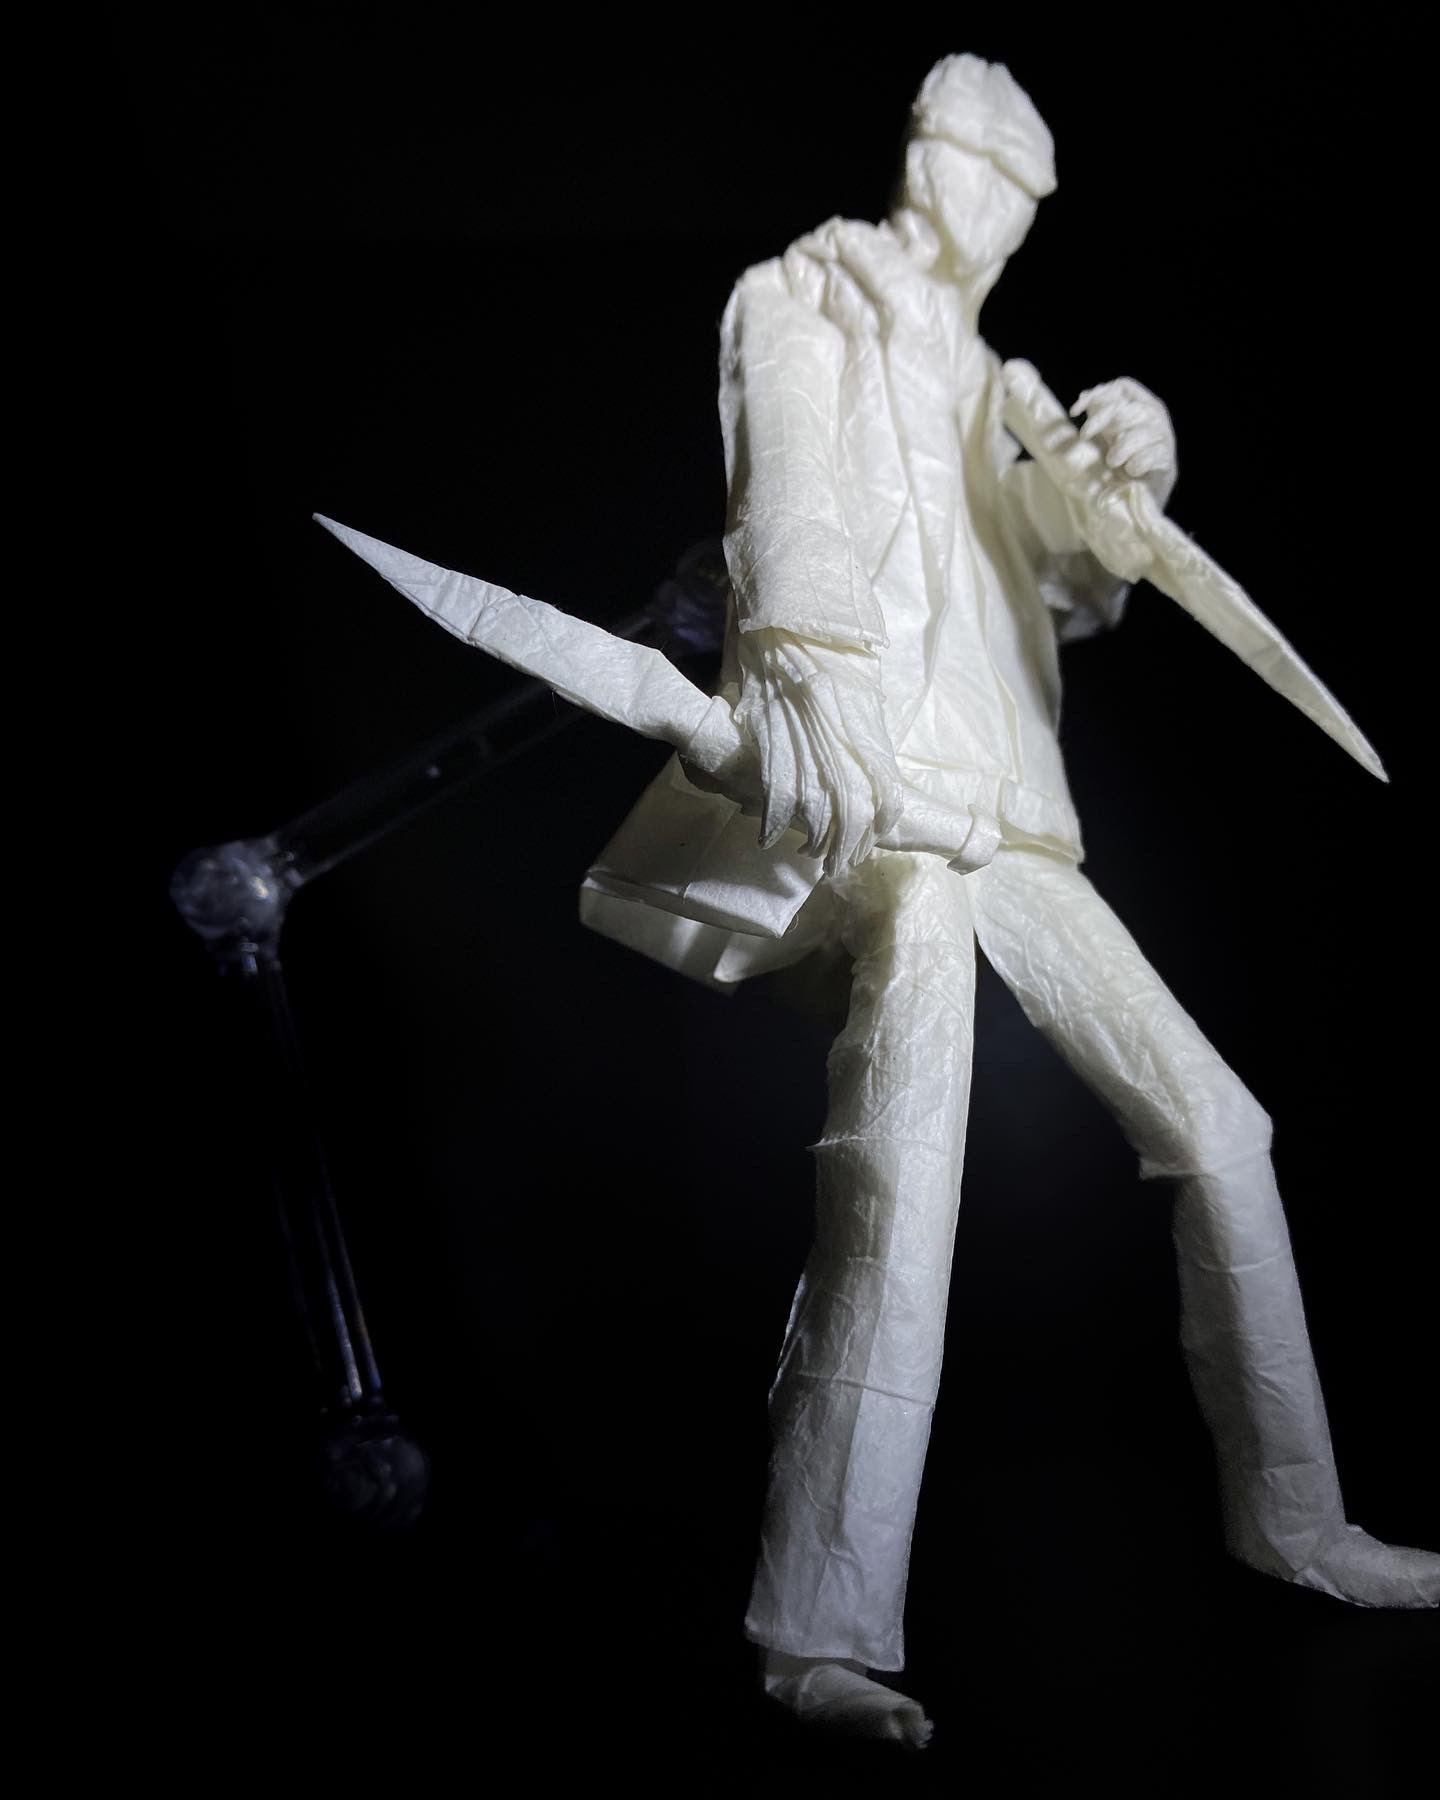
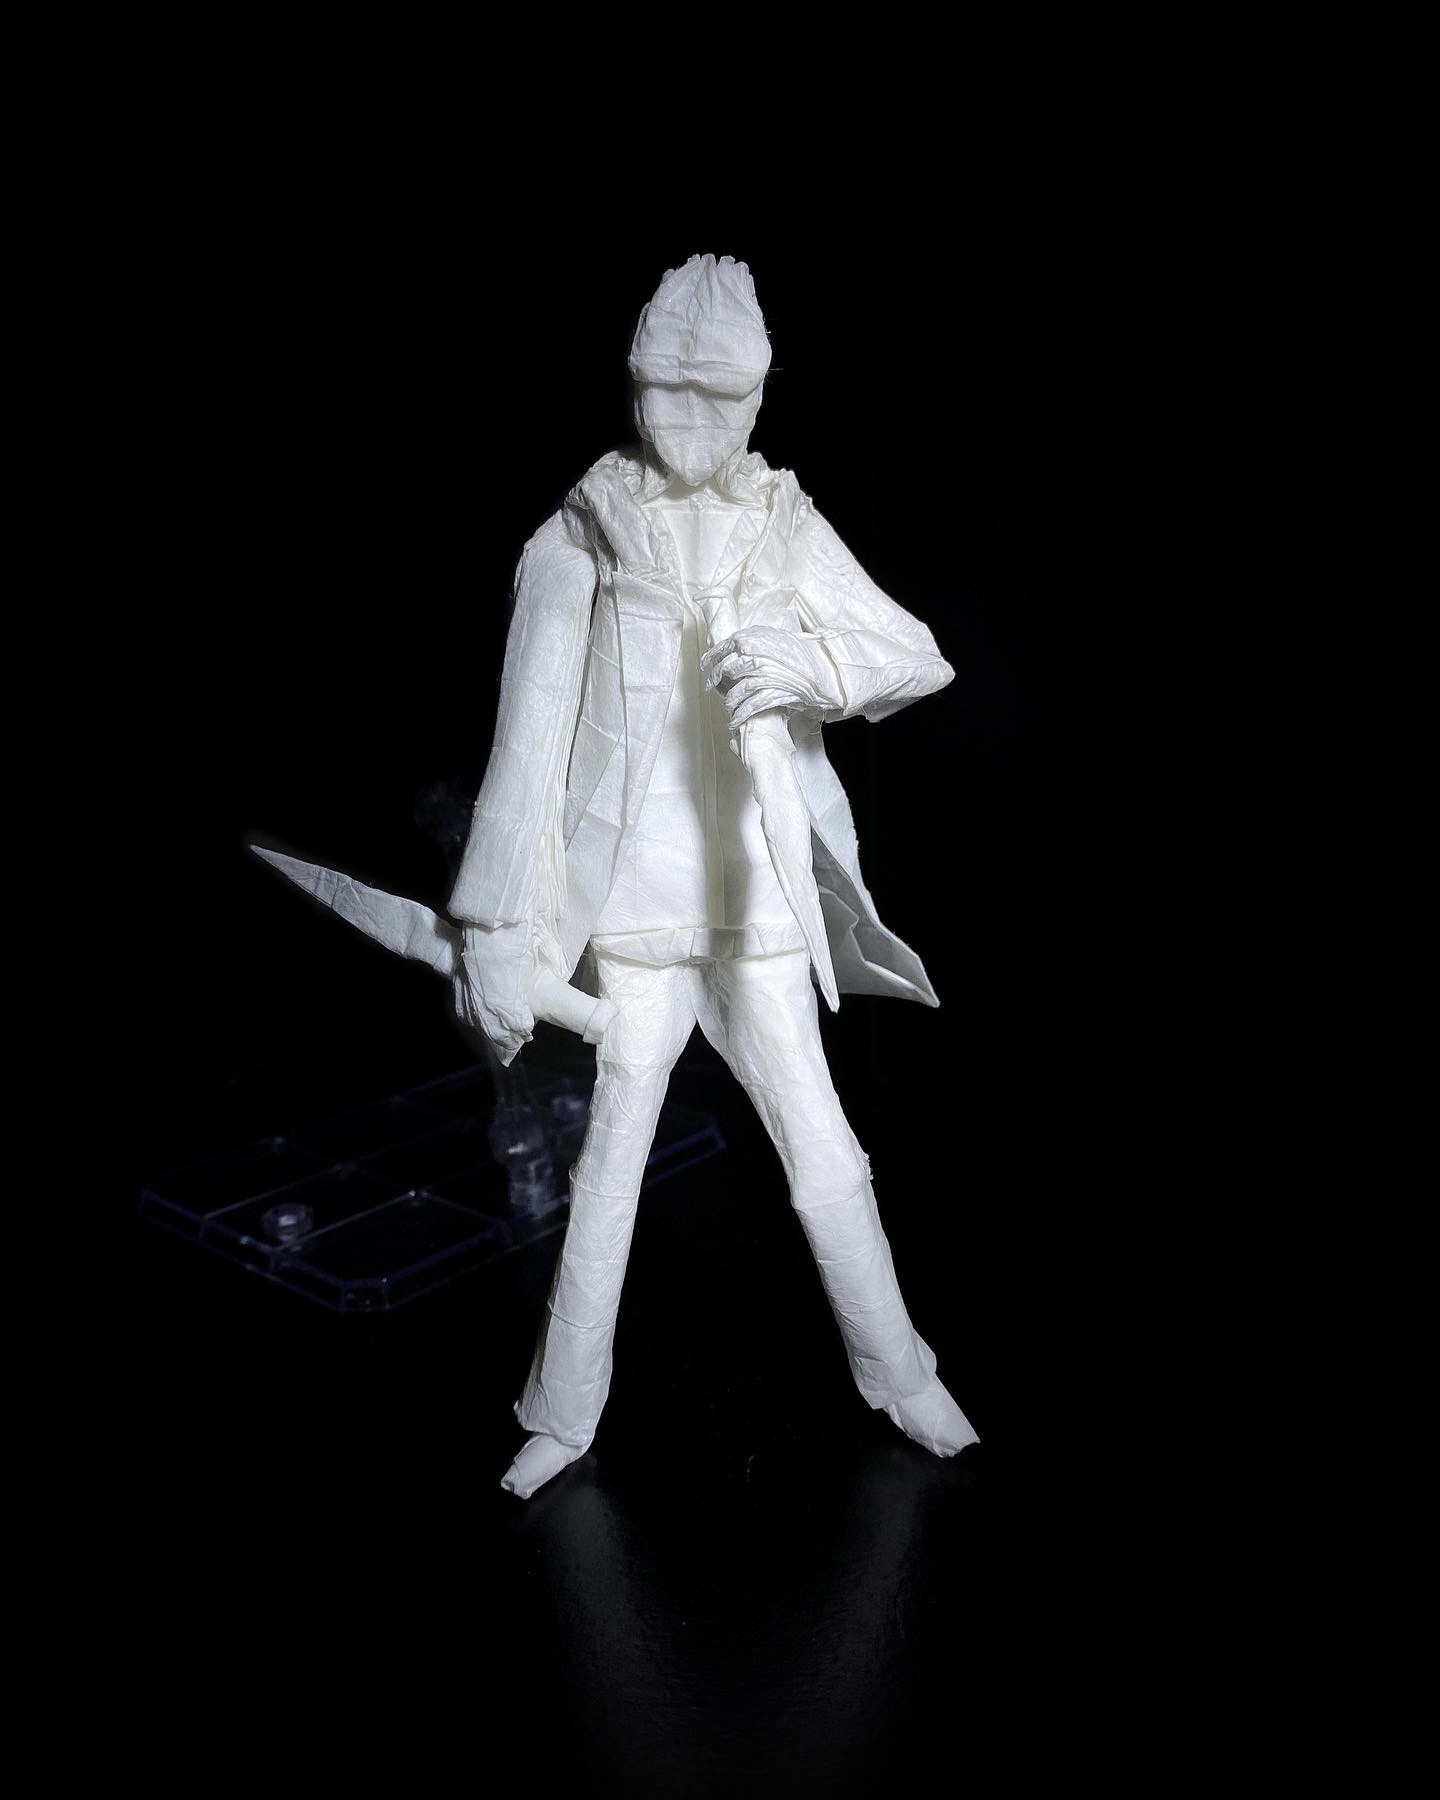
Update Bladed Tactician design description and image

Changed region(s): [[0.125, 0.0311, 1.0, 0.9644], [0.2188, 0.7156, 0.3125, 0.84], [0.1562, 0.6533, 0.2188, 0.7156]]

diff --git a/src/assets/origami/my-designs/bladed-tactician/info.md b/src/assets/origami/my-designs/bladed-tactician/info.md
@@ -1,5 +1,5 @@
 ---
 title: The Bladed Tactician
 date: 2023-05
-description: My first complex design, made for my high school capstone project.
+description: My first complex design, made for my high school capstone project. I made 3 of them, all shown in the photos in reverse chronological order (1 photo each for the oldest two)
 ---
